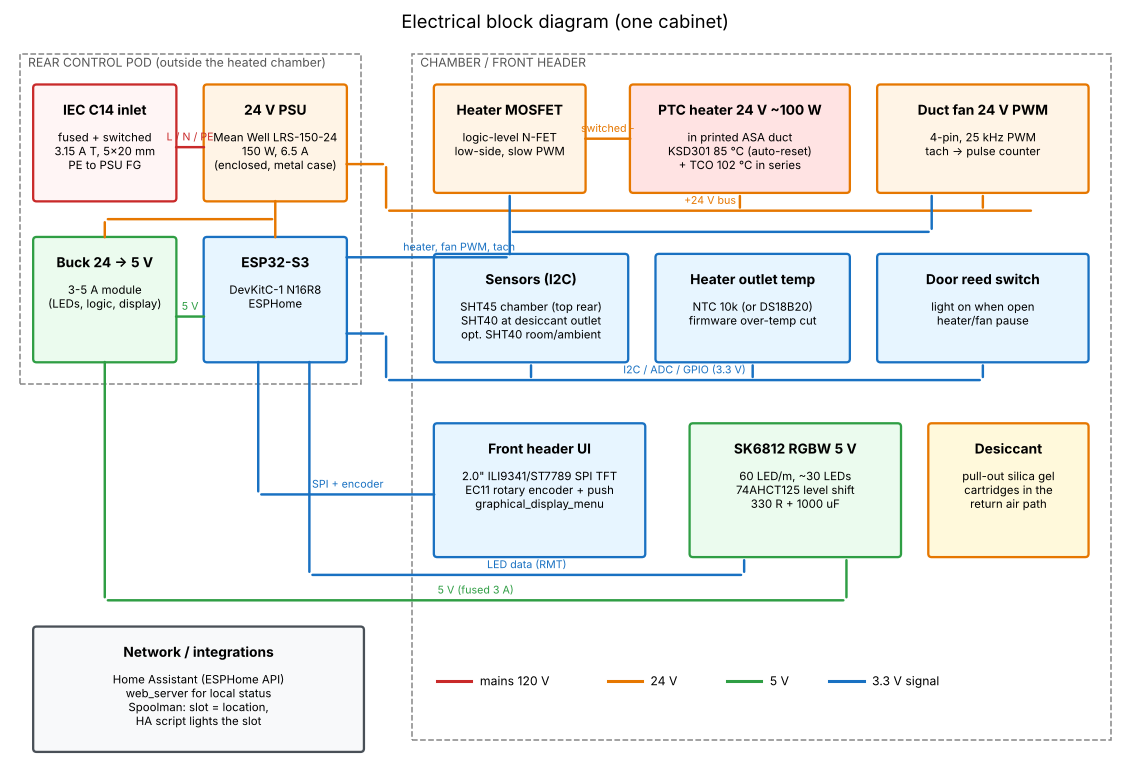
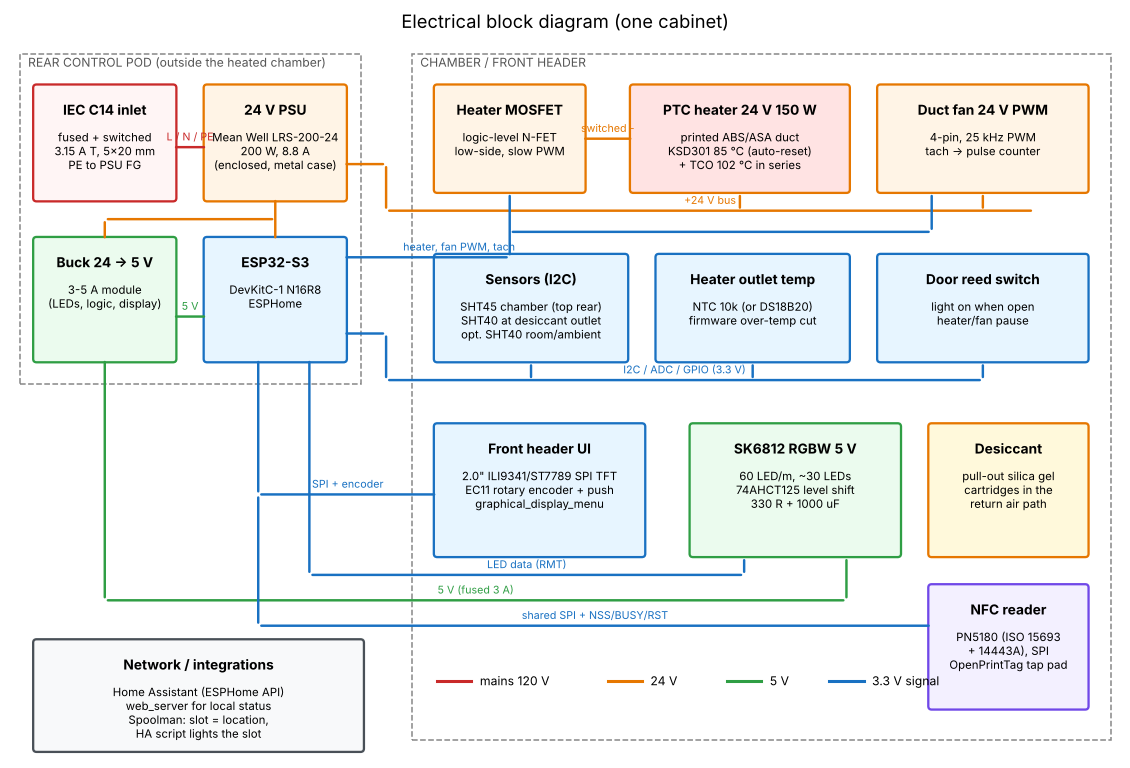
Filament dry cabinet spec v0.6: OpenPrintTag NFC tap pad (PN5180)
Claude-Session: https://claude.ai/code/session_01Fr6xhM7DESu9XfqMuZQkwi

diff --git a/models/filament-dry-cabinet/source/wiring.py b/models/filament-dry-cabinet/source/wiring.py
@@ -12,7 +12,7 @@ def wire(p, q, c='k', lab='', lw=1.6, ls='-'):
 MAINS='#c92a2a'; V24='#e67700'; V5='#2f9e44'; SIG='#1971c2'
 ax.add_patch(plt.Rectangle((1, 44), 40, 39, fill=False, ls='--', ec='#888')); ax.text(2, 81.5, 'REAR CONTROL POD (outside the heated chamber)', fontsize=8, color='#555')
 box(3, 66, 16, 13, 'IEC C14 inlet', 'fused + switched\n3.15 A T, 5x20 mm\nPE to PSU FG', fc='#fff5f5', ec=MAINS)
-box(23, 66, 16, 13, '24 V PSU', 'Mean Well LRS-150-24\n150 W, 6.5 A\n(enclosed, metal case)', fc='#fff4e6', ec=V24)
+box(23, 66, 16, 13, '24 V PSU', 'Mean Well LRS-200-24\n200 W, 8.8 A\n(enclosed, metal case)', fc='#fff4e6', ec=V24)
 wire((19, 72), (23, 72), MAINS, 'L / N / PE')
 box(3, 47, 16, 14, 'Buck 24 -> 5 V', '3-5 A module\n(LEDs, logic, display)', fc='#ebfbee', ec=V5)
 box(23, 47, 16, 14, 'ESP32-S3', 'DevKitC-1 N16R8\nESPHome', fc='#e7f5ff', ec=SIG)
@@ -21,7 +21,7 @@ wire((19, 52), (23, 52), V5, '5 V')
 # chamber side
 ax.add_patch(plt.Rectangle((47, 2), 82, 81, fill=False, ls='--', ec='#888')); ax.text(48, 81.5, 'CHAMBER / FRONT HEADER', fontsize=8, color='#555')
 box(50, 67, 17, 12, 'Heater MOSFET', 'logic-level N-FET\nlow-side, slow PWM', fc='#fff4e6', ec=V24)
-box(73, 67, 25, 12, 'PTC heater 24 V ~100 W', 'in printed ASA duct\nKSD301 85 °C (auto-reset)\n+ TCO 102 °C in series', fc='#ffe3e3', ec=V24)
+box(73, 67, 25, 12, 'PTC heater 24 V 150 W', 'printed ABS/ASA duct\nKSD301 85 °C (auto-reset)\n+ TCO 102 °C in series', fc='#ffe3e3', ec=V24)
 box(102, 67, 24, 12, 'Duct fan 24 V PWM', '4-pin, 25 kHz PWM\ntach -> pulse counter', fc='#fff4e6', ec=V24)
 # 24 V bus
 wire((39, 70), (44, 70), V24); wire((44, 70), (44, 64.5), V24); wire((44, 64.5), (120, 64.5), V24, '+24 V bus')
@@ -43,8 +43,10 @@ wire((29, 47), (29, 31), SIG); wire((29, 31), (50, 31), SIG, 'SPI + encoder')
 box(80, 24, 24, 15, 'SK6812 RGBW 5 V', '60 LED/m, ~30 LEDs\n74AHCT125 level shift\n330 R + 1000 uF', fc='#ebfbee', ec=V5)
 wire((35, 47), (35, 21.5), SIG); wire((35, 21.5), (86, 21.5), SIG, 'LED data (RMT)'); wire((86, 21.5), (86, 23.6), SIG)
 wire((11, 47), (11, 18.5), V5); wire((11, 18.5), (98, 18.5), V5, '5 V (fused 3 A)'); wire((98, 18.5), (98, 23.6), V5)
+box(108, 6, 18, 14, 'NFC reader', 'PN5180 (ISO 15693\n+ 14443A), SPI\nOpenPrintTag tap pad', fc='#f3f0ff', ec='#7048e8')
+wire((29, 31), (29, 15.5), SIG); wire((29, 15.5), (108, 15.5), SIG, 'shared SPI + NSS/BUSY/RST')
 box(108, 24, 18, 15, 'Desiccant', 'pull-out silica gel\ncartridges in the\nreturn air path', fc='#fff9db', ec='#e67700')
-box(3, 1, 38, 14, 'Network / integrations', 'Home Assistant (ESPHome API)\nweb_server for local status\nSpoolman: slot = location,\nHA script lights the slot', fc='#f8f9fa', ec='#495057')
+box(3, 1, 38, 12.5, 'Network / integrations', 'Home Assistant (ESPHome API)\nweb_server for local status\nSpoolman: slot = location,\nHA script lights the slot', fc='#f8f9fa', ec='#495057')
 for c, l, x in ((MAINS, 'mains 120 V', 50), (V24, '24 V', 70), (V5, '5 V', 84), (SIG, '3.3 V signal', 96)):
     ax.plot([x, x+4], [9, 9], color=c, lw=2); ax.text(x+5, 9, l, va='center', fontsize=8)
 ax.set_title('Electrical block diagram (one cabinet)', fontsize=12)

diff --git a/models/filament-dry-cabinet/source/draw.py b/models/filament-dry-cabinet/source/draw.py
@@ -103,9 +103,15 @@ ax.add_patch(Rectangle((-T, -T-FEET), EW, A['eh'], facecolor='#2b2b2b'))
 # door glass and header
 htop = IH + T; hy = htop - HEADER
 ax.add_patch(Rectangle((0, -T+12), IW, hy-4-(-T+12), facecolor='#cfe8fc', alpha=0.9, edgecolor='#111', lw=3))
-ax.add_patch(Rectangle((40, hy+10), 230, HEADER-20, facecolor='#e9ecef', edgecolor='#111'))
-ax.text(155, hy+HEADER/2+3, 'PETG', ha='center', va='center', fontsize=22, weight='bold')
-ax.text(155, hy+11, 'swappable label plate', ha='center', va='bottom', fontsize=6)
+ax.add_patch(Rectangle((30, hy+10), 200, HEADER-20, facecolor='#e9ecef', edgecolor='#111'))
+ax.text(130, hy+HEADER/2+3, 'PETG', ha='center', va='center', fontsize=22, weight='bold')
+ax.text(130, hy+11, 'swappable label plate', ha='center', va='bottom', fontsize=6)
+# NFC tap pad (PN5180 antenna behind the header)
+ax.add_patch(Rectangle((245, hy+6), 70, HEADER-12, facecolor='#343a40', edgecolor='#7048e8', lw=2))
+for r in (8, 14, 20):
+    ax.add_patch(matplotlib.patches.Arc((268, hy+HEADER/2), r, r*1.3, theta1=-50, theta2=50, color='#b197fc', lw=1.5))
+ax.text(295, hy+HEADER/2, 'TAP', ha='center', va='center', color='#b197fc', fontsize=9, weight='bold')
+ax.text(280, hy+1, 'NFC (OpenPrintTag)', ha='center', va='bottom', fontsize=5.5, color='white')
 ax.add_patch(Rectangle((330, hy+8), 62, HEADER-16, facecolor='#111', edgecolor='#666'))
 ax.text(361, hy+HEADER/2, '42°C\n14%RH', ha='center', va='center', color='#69db7c', fontsize=8, family='monospace')
 ax.add_patch(Circle((440, hy+HEADER/2), 14, facecolor='#adb5bd', edgecolor='#111'))
@@ -132,6 +138,6 @@ ax.text(IW+8, A['rod_front'], '3/4 in PVC rods\n+ index collars', fontsize=8, va
 ax.text(IW+8, IH+T-HEADER-11, 'SK6812 strip\n(5 LEDs per slot)', fontsize=8, va='center')
 ax.set_xlim(-T-10, EW+90); ax.set_ylim(-T-FEET-45, A['eh']-T-FEET+10)
 ax.set_aspect('equal'); ax.axis('off')
-ax.set_title('Front view: slots F1-F6 (front row) and B1-B6 (back row, raised)', fontsize=12)
+ax.set_title('Front view: slots F1-F6 / B1-B6, label plate, NFC tap pad, display + encoder', fontsize=12)
 plt.savefig('layout_front.png', dpi=110, bbox_inches='tight')
 print('ok')

diff --git a/models/filament-dry-cabinet/DESIGN.md b/models/filament-dry-cabinet/DESIGN.md
@@ -1,4 +1,4 @@
-# Filament Dry Cabinet: Design Spec (v0.5)
+# Filament Dry Cabinet: Design Spec (v0.6)
 
 This spec is for review before any CAD. v0.2 includes your answers to the open questions (§10). It sets the layout, construction, electronics, ESPHome control and the Spoolman slot scheme for **one cabinet**. You'll build **one cabinet per material family**: PLA, PETG, ABS/ASA, and so on.
 
@@ -18,6 +18,7 @@ This spec is for review before any CAD. v0.2 includes your answers to the open q
 | R10 | PTFE feed ports that can be closed off, on the **top and back** | **12 top ports** (one per slot) and **12 back ports**, all using one plug-in **port module**: PTFE or sealed blank (§4.6) |
 | R11 | Stackable | Feet nest into **pockets in the cabinet below**, with optional side links (§4.7) |
 | R12 | 120 V mains only | Inlet, fuse and PSU are specified for 120 V (§6.1) |
+| R13 | Works with **OpenPrintTag** NFC spool tags | A **PN5180 NFC tap pad** in the front header. Tap a spool to check it into a slot, and the slot is written to Spoolman's Location field (§4.4, §6.5, §8). |
 
 ## 2. Concept
 
@@ -77,7 +78,12 @@ This spec is for review before any CAD. v0.2 includes your answers to the open q
 - **Index collars:** printed split rings that clip onto the PVC every **80 mm** (75 mm spool plus 5 mm gap). They keep spools in their slots and carry the slot number moulded on top.
 
 ### 4.4 Front header and label plate
-- A 60 mm header above the door holds a **swappable label plate** on the left: multicolour printed text such as "PETG" that slides into a groove. On the right are the **2.0 in TFT** and the **encoder knob**.
+- A 60 mm header above the door holds, from left to right:
+  - a **swappable label plate**: multicolour printed text such as "PETG" that slides into a groove
+  - the **NFC tap pad**, a recessed area with a printed tap icon over the PN5180 antenna
+  - the **2.0 in TFT**
+  - the **encoder knob**
+- **The tap pad has no metal over it**, and the plastic covering the antenna is no more than 2–3 mm thick. If the PN5180 module you buy doesn't fit behind a 60 mm header, the header grows by up to 10 mm. The cabinet would then be 504 mm (19.8 in) tall, still under 20 in.
 - The **slot numbers 1–6** are also moulded into the door's bottom rail, lined up with the columns.
 
 ### 4.5 Rear control pod (outside the chamber)
@@ -179,6 +185,17 @@ There's also a **"Dry" mode** that runs a timed cycle at the cabinet's maximum t
 - **Colour options:** choose a preset colour or a custom RGB colour from the encoder menu (**Lights → Colour / Custom colour**), or with the colour picker in Home Assistant. "White" uses the SK6812's **dedicated white LED** for the cleanest light, which is best when you're reading labels. The colours mix the RGB LEDs. A colour is a nice way to match each cabinet to its material (for example amber for PETG). The choice is saved and restored after a power cut.
 - **Find slot** uses a contrasting highlight colour, so the chosen slot stands out against whatever colour the cabinet is set to.
 
+### 6.5 NFC reader (OpenPrintTag)
+
+- **Why the PN5180:** OpenPrintTag uses **NFC-V tags (ISO 15693, NXP ICODE SLIX/SLIX2)**. The common RC522 and PN532 readers only handle ISO 14443 tags (MIFARE/NTAG). The **NXP PN5180** reads **both ISO 15693 and ISO 14443A**, so the same pad also works with NTAG-based formats such as OpenSpool and TigerTag.
+- **Wiring:** it shares the **SPI bus** with the TFT and adds its own **NSS, BUSY and RST** pins. It needs **5 V** (RF) and **3.3 V** (logic) from the existing rails.
+- **Range:** a few centimetres. This is tap-to-check-in at the front of the cabinet, not automatic detection of each slot.
+- **Firmware: an ESPHome external component (new work).** ESPHome has no built-in PN5180 support. The plan is a small external component that wraps an existing open-source **ESP-IDF PN5180 driver** (ISO 15693 inventory, read blocks, NDEF Type 5). It would publish:
+  - the tag's **UID**, and the **raw OpenPrintTag payload** (CBOR in an NDEF record)
+  - a few decoded fields for the screen: brand, material, colour, and nominal and remaining weight
+- **Decoding:** full decoding is done in Home Assistant or a small helper service, which keeps the firmware simple.
+- **Tags:** spools that don't come with an OpenPrintTag get a **blank ICODE SLIX2 tag**. NTAG215 won't work for OpenPrintTag. Write it once with a phone app (Prusa app, SimplyPrint) or a USB reader.
+
 ## 7. ESPHome (planned entities)
 
 | Entity | Type | Notes |
@@ -201,6 +218,9 @@ There's also a **"Dry" mode** that runs a timed cycle at the cabinet's maximum t
 | Desiccant days since recharge | sensor + reset button | Reminder |
 | Door | binary_sensor | |
 | Fault | text_sensor | Last interlock that tripped |
+| NFC tag UID / last scan | text_sensor | From the PN5180 component |
+| NFC tag data | text_sensor (+ HA event `drybox_tag_scanned`) | Raw OpenPrintTag payload, plus decoded brand, material, colour and weight |
+| NFC check-in / check-out | event to HA | Carries the cabinet, slot and tag UID. HA updates Spoolman. |
 | Cabinet light, Slot F1…B6 lights | light | Full strip + per-slot partitions. Home Assistant gets the full RGBW colour picker. |
 | Light colour | select (restored) | **White (W channel)** · Warm white · Red · Orange · Amber · Yellow · Green · Cyan · Blue · Purple · Magenta · **Custom** |
 | Custom colour R / G / B | number × 3 (0–255, restored) | Used when Colour = Custom. Set from the encoder or from HA. |
@@ -223,6 +243,7 @@ There's also a **"Dry" mode** that runs a timed cycle at the cabinet's maximum t
 | Material preset | PLA · PETG · ABS/ASA · TPU · Nylon/PC (loads the defaults in §5) |
 | Lights | On/off · Brightness · **Colour** (preset list) · **Custom colour** (R / G / B, 0–255) · Find slot (choose F1–B6 to light it) |
 | Desiccant | Days since recharge · **Reset after recharge** (asks to confirm) |
+| **Spools** | **Check in** (tap, choose a slot, confirm) · **Check out** (tap or choose a slot) · Last scanned tag · Slot map (F1–B6 with what's in each) |
 | **Tuning** | **PID autotune → Start** (asks to confirm) · Abort · Last result (kp / ki / kd) |
 | Info | IP address · Wi-Fi signal · firmware version · last fault |
 | Exit | Back to the status page | Everything also works without Wi-Fi. The local `web_server` shows status on the network.
@@ -233,7 +254,19 @@ There's also a **"Dry" mode** that runs a timed cycle at the cabinet's maximum t
 
 - **Slot ID = `<cabinet>-<row><position>`**, for example **`PETG-F3`** or **`ABS-B6`**. Put it in Spoolman's **Location** field for the spool. F is the front row and B is the back row, and positions run 1–6 from left to right.
 - **On the cabinet:** the label plate shows the cabinet name ("PETG"). Index collars and the door rail show 1–6. The rows are physically obvious: front is low, back is high.
-- **Spoolman QR labels** go on the spool sides that face the door.
+- **Spoolman QR labels** go on the spool sides that face the door. They're still useful for spools without an NFC tag.
+
+### 8.1 NFC check-in / check-out flow (OpenPrintTag)
+
+1. **Tap the spool** on the header pad. The screen shows the brand, material and colour from the tag. A material that doesn't match the cabinet's preset gets a warning, for example "PLA in the PETG cabinet?".
+2. **Pick a slot** with the encoder. It suggests the first empty slot from the slot map, and that slot **lights up** as you scroll.
+3. **Confirm** with a press. The ESP32 sends a `check_in` event (cabinet, slot, UID and tag data) to Home Assistant.
+4. **Home Assistant → Spoolman:** an automation looks up the spool by the tag's UID, which is stored in a Spoolman **extra field**. If it isn't there yet, the automation **creates the vendor, filament and spool** from the tag data. Then it sets **Location = `PETG-B4`** (for example).
+5. **Check out:** tap the spool (or pick its slot) and confirm. The automation clears the Location or sets it to the printer's name.
+
+The slot map on the cabinet is rebuilt from Spoolman's Location fields at startup and after each change, so Spoolman stays the single source of truth.
+
+**Spoolman support:** upstream Spoolman doesn't read OpenPrintTag yet (there's a fork with NFC lookup that hasn't been merged), so this flow uses Spoolman's existing REST API and extra fields through Home Assistant. If upstream adds native NFC lookup later, step 4 gets simpler, and nothing on the cabinet changes.
 - **Home Assistant (phase 5):** use the Spoolman integration plus a script that, when you pick a spool, **lights its slot** in that cabinet. It can also show each cabinet's spool list and remaining weight on a dashboard.
 
 ## 9. Bill of materials (one cabinet, draft)
@@ -260,6 +293,8 @@ There's also a **"Dry" mode** that runs a timed cycle at the cabinet's maximum t
 - 24 V 4-pin PWM fan (60–80 mm)
 - SK6812 RGBW 5 V strip (60/m, 0.5 m), 74AHCT125, 330 Ω, 1000 µF
 - 2.0 in SPI TFT (ILI9341/ST7789), EC11 encoder, reed switch + magnet
+- **PN5180 NFC module** (ISO 15693 + 14443A, SPI). Check the board size against the header (§4.4).
+- **Blank ICODE SLIX2 tags** for spools that don't ship with OpenPrintTag
 - Wire: 18 AWG for mains, 20 AWG for 24 V. Ferrules, connectors.
 
 **Consumables**
@@ -277,10 +312,12 @@ There's also a **"Dry" mode** that runs a timed cycle at the cabinet's maximum t
 | Mains | **120 V only** |
 | Shell material | **ABS or ASA** for all printed parts |
 | Heater | **150 W in every cabinet**, with the same PSU and parts. **PID with autotune** adjusts it for each cabinet. |
+| NFC | **Add an OpenPrintTag reader:** a PN5180 tap pad in the header for checking spools in and out (§6.5, §8.1) |
 
 Still open (not blocking CAD):
 - **Which material cabinet to build first?** This now only changes the label plate and the firmware preset.
 - **Port socket thread:** this will be confirmed with a fit-test print.
+- **PN5180 module size:** this decides whether the header stays at 60 mm or grows to 70 mm.
 
 ## 11. Plan
 
@@ -289,5 +326,6 @@ Still open (not blocking CAD):
 | **1 (this)** | Design spec, layout, electrical plan, BOM |
 | 2 | CAD: tiles, corner posts, front frame, door, hinges, rod cradles and risers, index collars, label plate, header with display, heater duct, desiccant cartridges, rear pod, **port sockets and modules with a fit-test coupon**, **stacking feet, pockets and links**. STEP and STL. |
 | 3 | ESPHome YAML, pin map and wiring diagram |
+| 3b | **ESPHome PN5180 external component**: ISO 15693 inventory and read, plus OpenPrintTag payload. Tested on a bench board before it goes in the cabinet. |
 | 4 | Prototype: one cabinet. Test the fit, the heat-up and holding RH. |
-| 5 | Home Assistant and Spoolman: slot lighting, dashboards, desiccant alerts |
+| 5 | Home Assistant and Spoolman: **NFC check-in/out automation** (find or create the spool, set Location), slot lighting, dashboards, desiccant alerts |

diff --git a/models/filament-dry-cabinet/README.md b/models/filament-dry-cabinet/README.md
@@ -4,7 +4,7 @@ category: Storage
 status: Design
 material: ABS / ASA
 printer: Voron 2.4 R2 350
-tags: [filament, dry-box, dehumidifier, esphome, esp32, sk6812, spoolman, pvc, modular, stackable, ptfe]
+tags: [filament, dry-box, dehumidifier, esphome, esp32, sk6812, spoolman, openprinttag, nfc, pvc, modular, stackable, ptfe]
 summary: Modular, stackable, heated and desiccant-dried 12-spool cabinet (one per material). ESPHome control, SK6812 lighting, closable PTFE ports and Spoolman slot IDs. Under 20 in deep and tall.
 ---
 
@@ -30,6 +30,7 @@ A modular cabinet that stores **12 × 1 kg spools** and keeps them dry. A low-vo
 | Stacking | Feet nest into pockets in the cabinet below, with optional side links. Stacks of 2–3. |
 | Drying | 24 V PTC heater, 150 W in every cabinet with PID (autotune), + PWM fan + about 700 g of silica gel |
 | Control | ESP32-S3, SHT45/SHT40, 2.0 in TFT + encoder, ESPHome |
+| NFC | **PN5180 tap pad** in the header for **OpenPrintTag** (ISO 15693) and NTAG tags. Tap a spool and pick a slot, and Spoolman's Location updates. |
 | Power | 120 V IEC C14 fused and switched inlet → Mean Well 24 V PSU in a rear pod outside the chamber |
 | Safety | Hardware thermal cutouts (85 °C auto-reset + 102 °C fuse) and firmware interlocks |
 
@@ -44,6 +45,7 @@ A modular cabinet that stores **12 × 1 kg spools** and keeps them dry. A low-vo
 
 ## Revision History
 
+- **v0.6** (2026-11-22): added an OpenPrintTag NFC reader: a PN5180 tap pad in the header, a Spools menu for checking spools in and out, an HA → Spoolman flow, and the ESPHome PN5180 component as new firmware work.
 - **v0.5** (2026-11-22): RGB colour options for the lights: a preset colour list and a custom RGB colour, set from the encoder menu or Home Assistant.
 - **v0.4** (2026-11-22): PID autotune now starts from the encoder menu (Tuning → PID autotune), with a confirmation step, instead of a button. Added a draft menu layout.
 - **v0.3** (2026-11-22): every cabinet uses the same parts: a 150 W heater and Mean Well LRS-200-24, with PID control and autotune for each cabinet.

diff --git a/README.md b/README.md
@@ -42,7 +42,7 @@ A collection of 3D printable models — source files, print-ready files, and pri
 
 | Model | Description | Material | Status | Tags |
 |-------|-------------|----------|--------|------|
-| [Filament Dry Cabinet](models/filament-dry-cabinet/README.md) | Modular, stackable, heated and desiccant-dried 12-spool cabinet (one per material). ESPHome control, SK6812 lighting, closable PTFE ports and Spoolman slot IDs. Under 20 in deep and tall. | ABS / ASA | Design | `filament` `dry-box` `dehumidifier` `esphome` `esp32` `sk6812` `spoolman` `pvc` `modular` `stackable` `ptfe` |
+| [Filament Dry Cabinet](models/filament-dry-cabinet/README.md) | Modular, stackable, heated and desiccant-dried 12-spool cabinet (one per material). ESPHome control, SK6812 lighting, closable PTFE ports and Spoolman slot IDs. Under 20 in deep and tall. | ABS / ASA | Design | `filament` `dry-box` `dehumidifier` `esphome` `esp32` `sk6812` `spoolman` `openprinttag` `nfc` `pvc` `modular` `stackable` `ptfe` |
 <!-- INDEX:END -->
 
 ## Repository Layout
